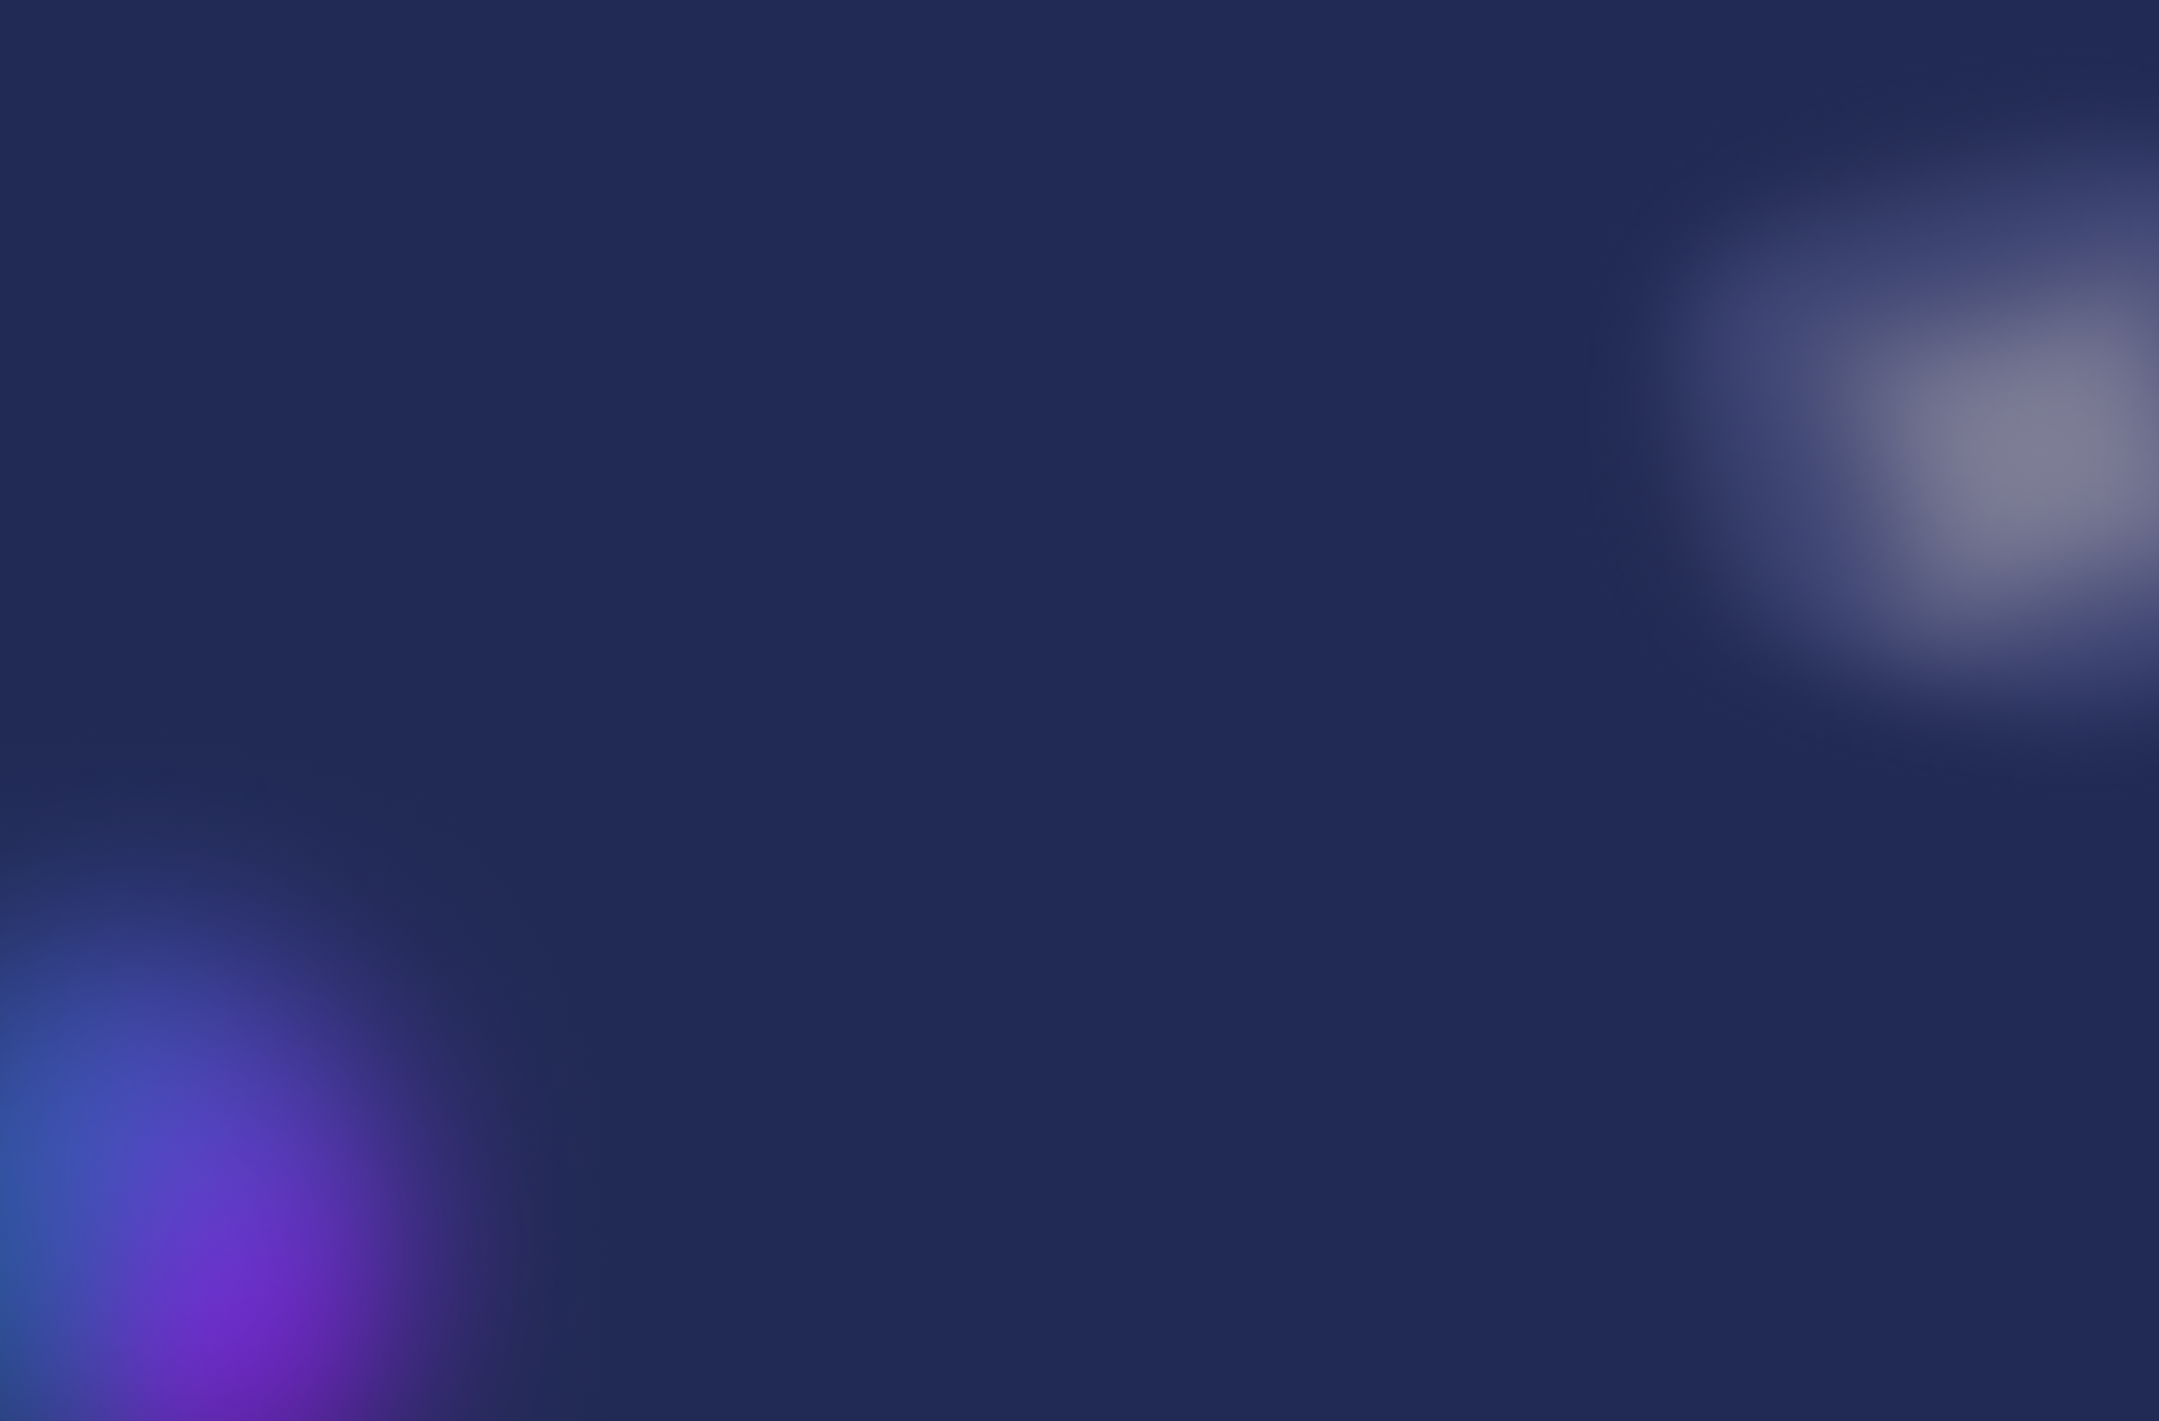
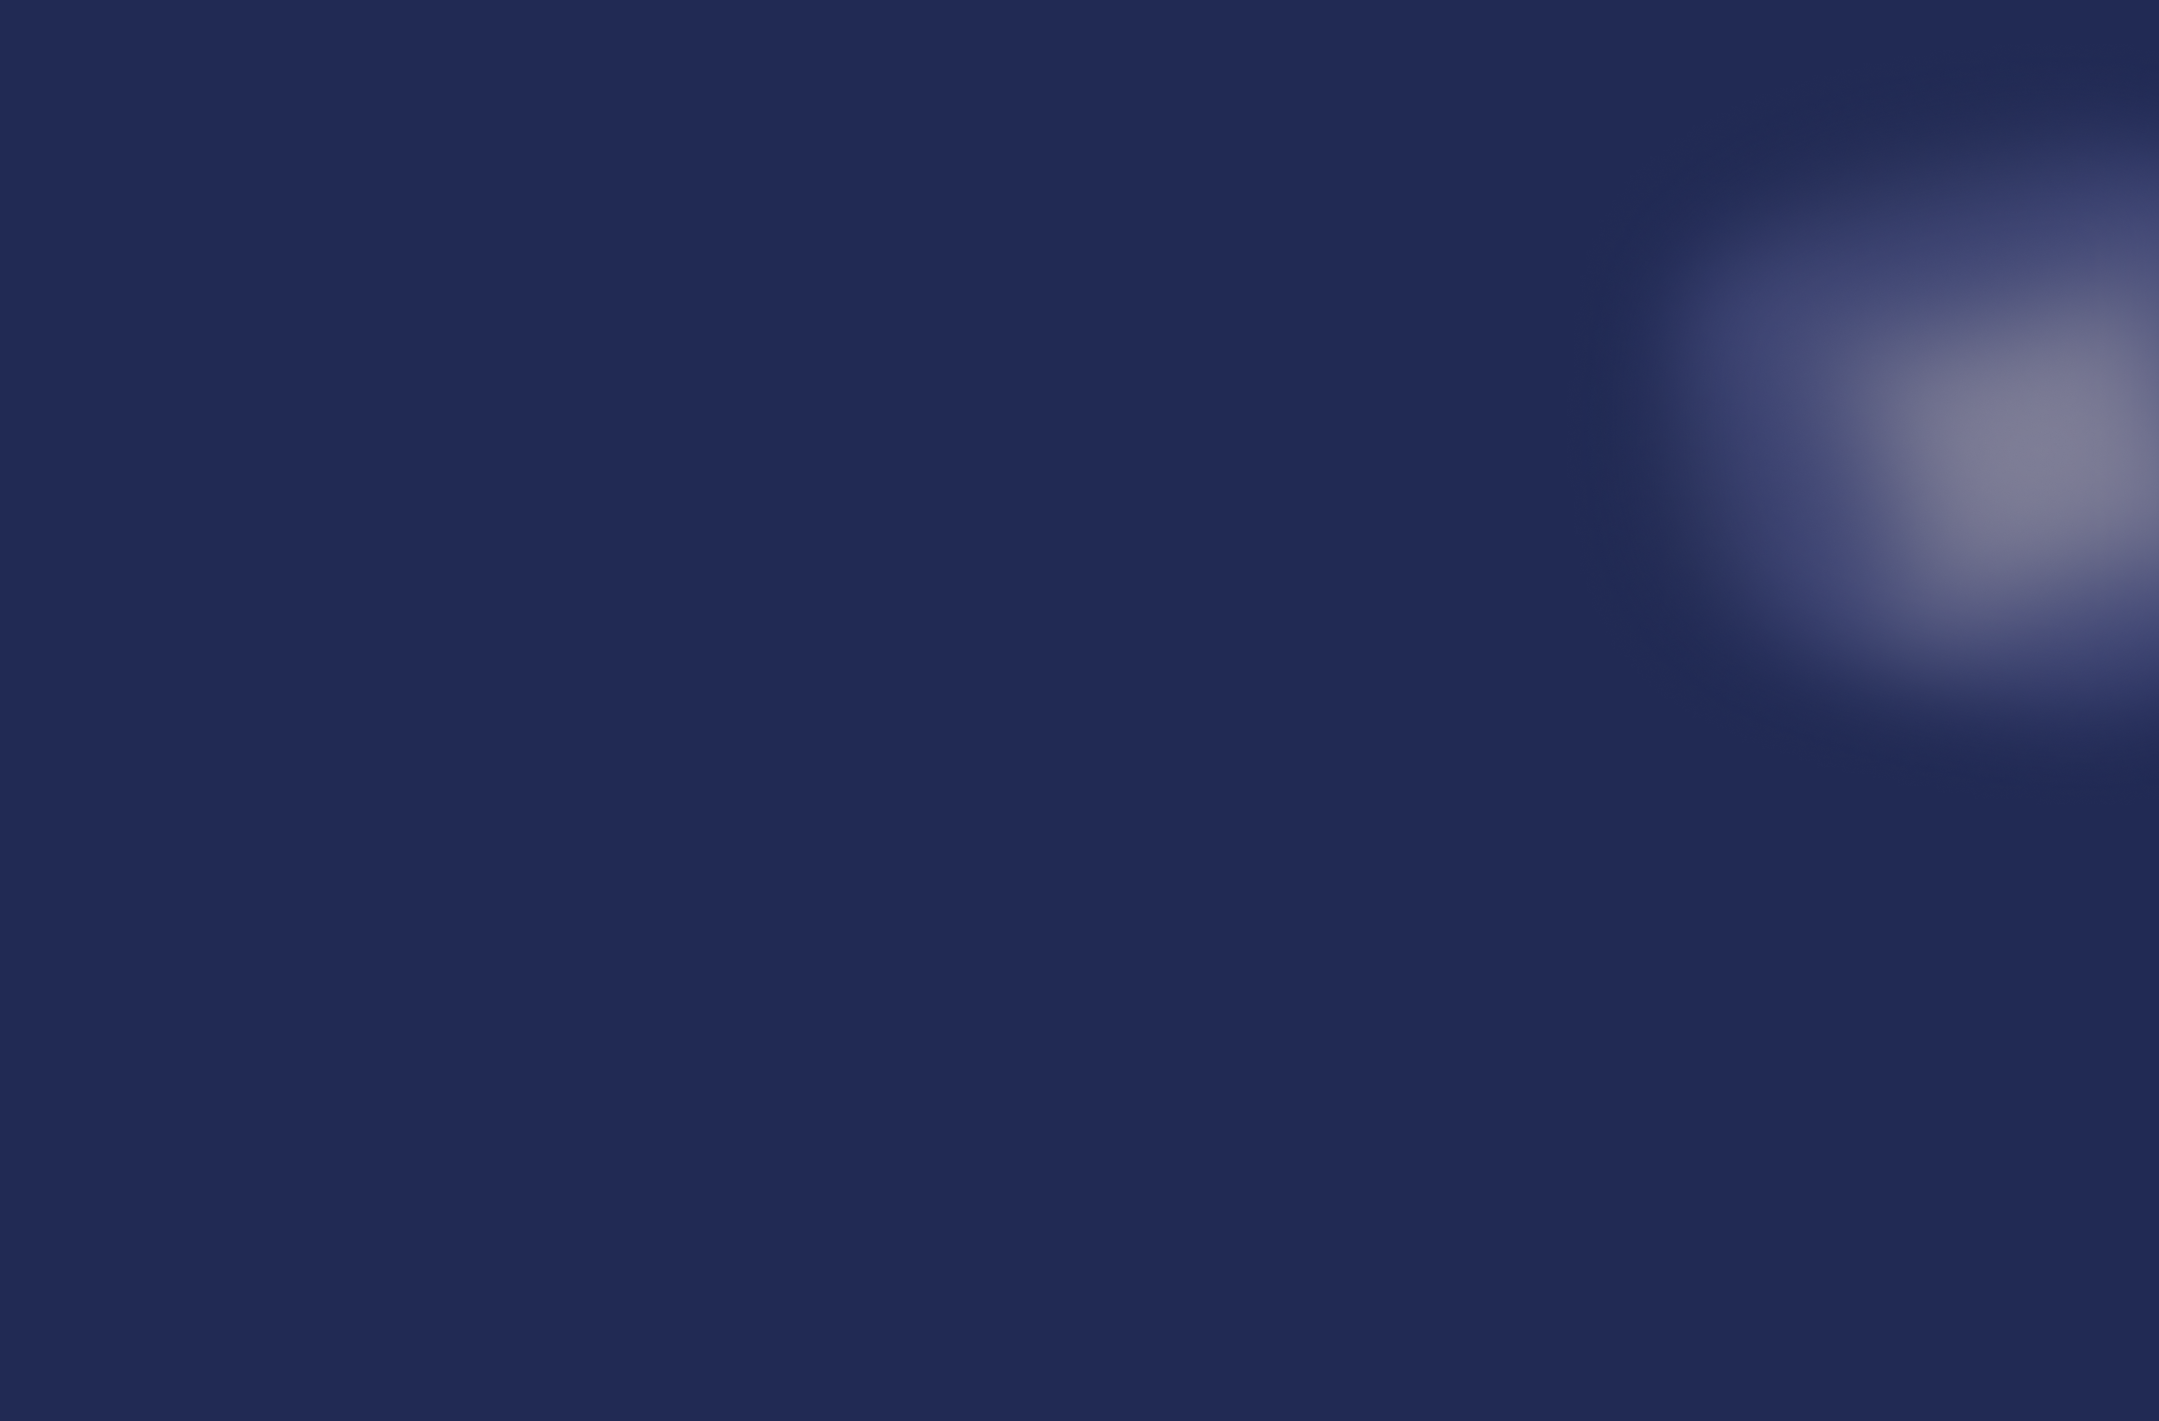
fix bottom eclips fading in header

Changed region(s): [[0.0, 0.6193, 0.2172, 1.0]]

diff --git a/css/index.css b/css/index.css
@@ -246,6 +246,7 @@
 
 /* HEADER */
 .header {
+  overflow: hidden;
   height: 100vh;
   background-image: url(../assets/images/header-bg.png);
   background-size: cover;
@@ -339,12 +340,6 @@
   bottom: -70px;
 }
 
-.eclips--top-right {
-  top: -80px;
-  right: -500px;
-  z-index: -2;
-}
-
 .img {
   position: relative;
   z-index: 4;
@@ -354,6 +349,13 @@
   position: absolute;
   bottom: -500px;
   z-index: 0;
+}
+
+.eclips--bottom-left{
+  bottom: -50%;
+  left: -20%;
+  z-index: 0;
+  filter: blur(22px);
 }
 
 /* ABOUT */

diff --git a/index.html b/index.html
@@ -45,12 +45,9 @@
   </nav>
 
   <header class="header">
-    <!-- <div class="eclips--top-right position--absolute">
-      <img src="assets/images/white-ellipse.png" alt="">
-    </div>
     <div class="eclips--bottom-left position--absolute">
       <img src="assets/images/gradient-eclips.png" alt="">
-    </div> -->
+    </div>
     <section class="container header__items--grid">
       <div class="header__content items--flex--column">
         <h1>Hi, I'm <span class="text--main">Dalia</span></h1>
